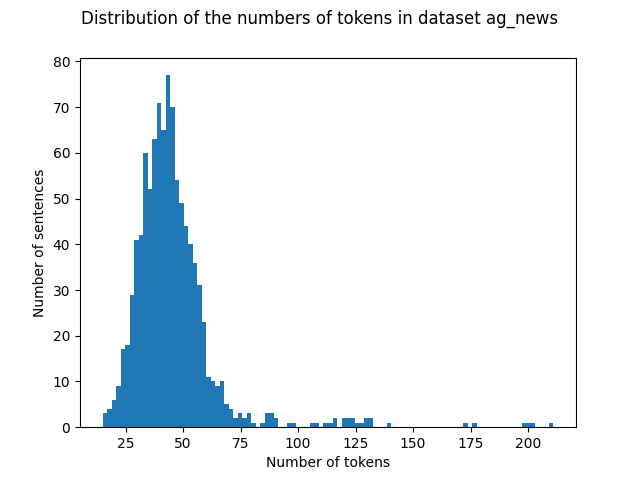
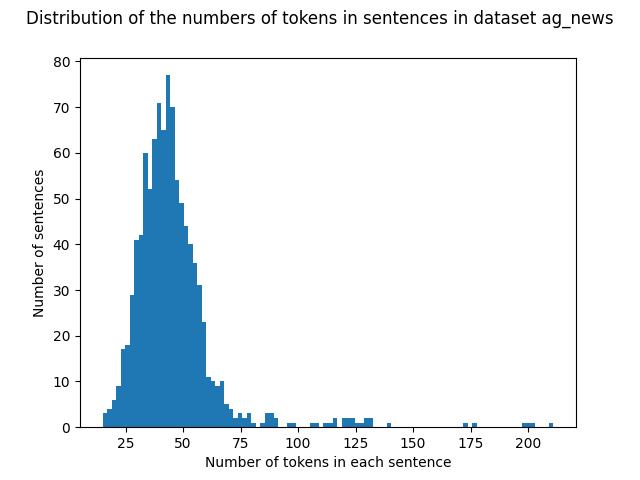
update image

Changed region(s): [[0.0312, 0.0, 0.9688, 0.0625], [0.3125, 0.9375, 0.7188, 1.0]]

diff --git a/sentence_analyze.py b/sentence_analyze.py
@@ -15,10 +15,11 @@ if __name__ == '__main__':
     for text in documents:
         len_lst.append(len(tokenizer(text)['input_ids']))
     print(sum(len_lst)/len(len_lst))
-    print(len_lst[-100:])
+    print(min(len_lst))
+    print(max(len_lst))
     plt.hist(len_lst,bins=100)
-    plt.suptitle(f'Distribution of the numbers of tokens in dataset {args.dataset}')
+    plt.suptitle(f'Distribution of the numbers of tokens in sentences in dataset {args.dataset}')
     plt.ylabel('Number of sentences')
-    plt.xlabel('Number of tokens')
+    plt.xlabel('Number of tokens in each sentence')
     plt.savefig(dataset_dir+f'/image_train_token_{args.dataset_size}.png')
     plt.show() 

diff --git a/README.md b/README.md
@@ -6,6 +6,10 @@ Average length: 45.897
 
 Number of unique tokens: 7775
 
+Minimum number of tokens: 15
+
+Maximum number of tokens: 211
+
 <img src="datasets/ag_news/image_train_long.png" alt="" width="whatever" height="whatever">
 
 <img src="datasets/ag_news/image_train_token_long.png" alt="" width="whatever" height="whatever">
@@ -14,6 +18,10 @@ Number of unique tokens: 7775
 Average length: 100.649
 
 Number of unique tokens: 9583
+
+Minimum number of tokens: 21
+
+Maximum number of tokens: 271
 
 <img src="datasets/amazon_review_full/image_train_long.png" alt="" width="whatever" height="whatever">
 
@@ -24,6 +32,10 @@ Average length: 101.834
 
 Number of unique tokens: 9692
 
+Minimum number of tokens: 16
+
+Maximum number of tokens: 411
+
 <img src="datasets/amazon_review_polarity/image_train_long.png" alt="" width="whatever" height="whatever">
 
 <img src="datasets/amazon_review_polarity/image_train_token_long.png" alt="" width="whatever" height="whatever">
@@ -32,6 +44,10 @@ Number of unique tokens: 9692
 Average length: 66.228
 
 Number of unique tokens: 10074
+
+Minimum number of tokens: 7
+
+Maximum number of tokens: 398
 
 <img src="datasets/dbpedia/image_train_long.png" alt="" width="whatever" height="whatever">
 
@@ -42,6 +58,10 @@ Average length: 321.64
 
 Number of unique tokens: 15132
 
+Minimum number of tokens: 50
+
+Maximum number of tokens: 1712
+
 <img src="datasets/imdb/image_train_long.png" alt="" width="whatever" height="whatever">
 
 <img src="datasets/imdb/image_train_token_long.png" alt="" width="whatever" height="whatever">
@@ -50,6 +70,10 @@ Number of unique tokens: 15132
 Average length: 1690.045
 
 Number of unique tokens: 2745
+
+Minimum number of tokens: 12
+
+Maximum number of tokens: 23173
 
 <img src="datasets/sogou_news/image_train_long.png" alt="" width="whatever" height="whatever">
 
@@ -60,6 +84,10 @@ Average length: 56.644
 
 Number of unique tokens: 6657
 
+Minimum number of tokens: 3
+
+Maximum number of tokens: 667
+
 <img src="datasets/yahoo_answers/image_train_long.png" alt="" width="whatever" height="whatever">
 
 <img src="datasets/yahoo_answers/image_train_token_long.png" alt="" width="whatever" height="whatever">
@@ -69,6 +97,10 @@ Average length: 190.98
 
 Number of unique tokens: 9443
 
+Minimum number of tokens: 3
+
+Maximum number of tokens: 1310
+
 <img src="datasets/yelp_review_full/image_train_long.png" alt="" width="whatever" height="whatever">
 
 <img src="datasets/yelp_review_full/image_train_token_long.png" alt="" width="whatever" height="whatever">
@@ -77,6 +109,10 @@ Number of unique tokens: 9443
 Average length: 188.554
 
 Number of unique tokens: 9519
+
+Minimum number of tokens: 7
+
+Maximum number of tokens: 1220
 
 <img src="datasets/yelp_review_polarity/image_train_long.png" alt="" width="whatever" height="whatever">
 
